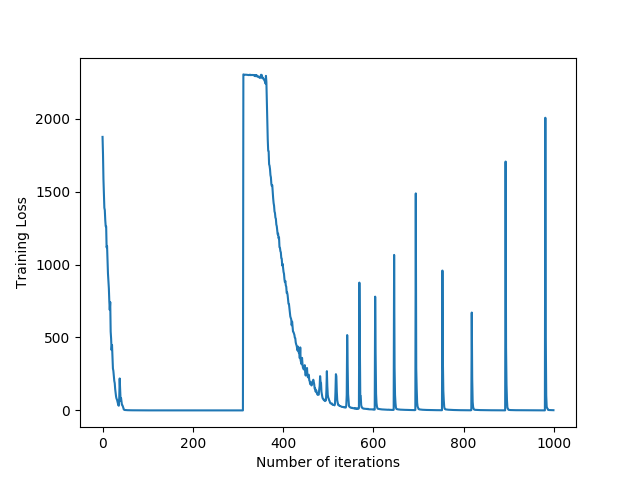
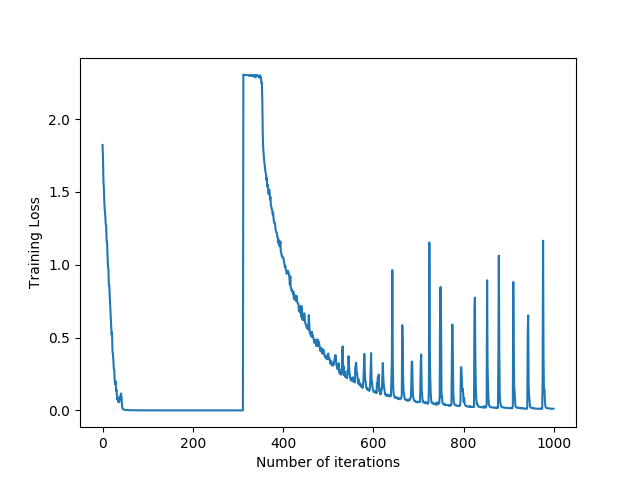
a3c

diff --git a/Assignment 2/Part A/A3c.py b/Assignment 2/Part A/A3c.py
@@ -100,7 +100,7 @@ def main():
 
     c1,p1,c2,p2,logits = cnn(x)
 
-    cross_entropy = tf.nn.softmax_cross_entropy_with_logits_v2(labels=y_, logits=logits)*1000000
+    cross_entropy = tf.nn.softmax_cross_entropy_with_logits_v2(labels=y_, logits=logits)
     loss = tf.reduce_mean(cross_entropy)
 
     train_step = tf.train.AdamOptimizer(learning_rate).minimize(loss)
